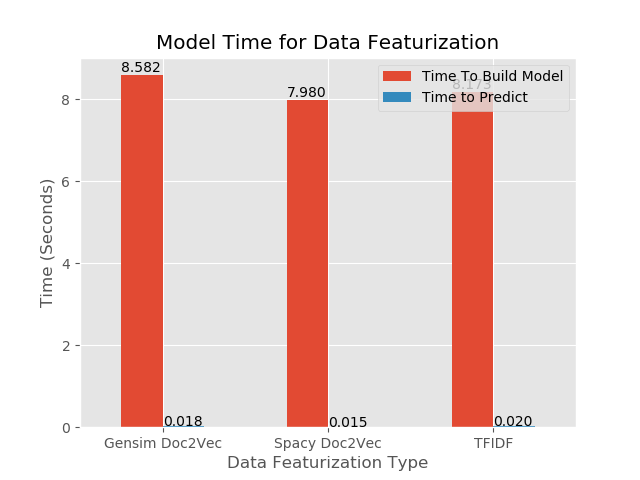
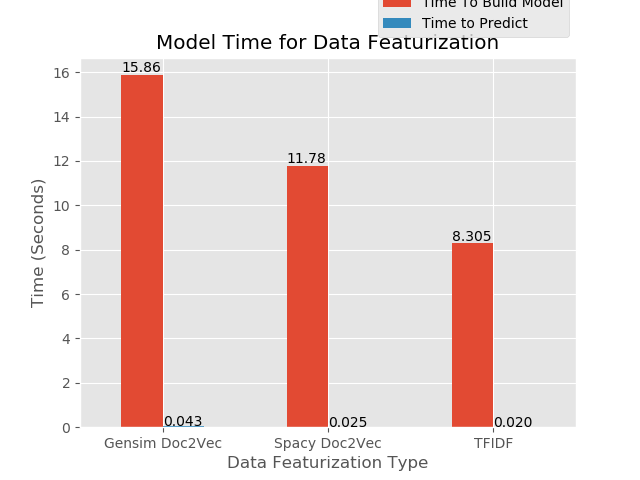
updated pipline to work correctly and give the right results

diff --git a/src/ModelCompare.py b/src/ModelCompare.py
@@ -82,8 +82,8 @@ def Smote(X, y, random_state = 42, k_neighbors=3, plot = False):
 
 def Doc_Simularity(corpus, vector, index, n_simular = 1):
     cosine = pairwise_distances(vector, metric='cosine')[index]
-    indexes_most = cosine.argsort()[:-n_simular-1:-1][0]
-    indexes_least = cosine.argsort()[n_simular+1]
+    indexes_least = cosine.argsort()[:-n_simular-1:-1][0]
+    indexes_most = cosine.argsort()[n_simular+1]
     return corpus[indexes_most], corpus[indexes_least]
 
 def ModelSplitting(X, y, test_size):
@@ -111,7 +111,8 @@ def bar_plot(Dict, y_label, title, save_file, legend=False):
     ax = df.plot(kind='bar', x='Data Featurization Type', rot=0, legend=legend)
     ax.set_ylabel(y_label)
     ax.set_title(title)
-    ax.get_legend().set_bbox_to_anchor((1,1.2))
+    if legend:
+      ax.get_legend().set_bbox_to_anchor((1,1.2))
     for i in ax.patches:
       ax.annotate(str(i.get_height())[:5], (i.get_x(), i.get_height() * 1.01))
     plt.savefig(save_file)
@@ -122,11 +123,11 @@ def Document_Save_to_file(filename, corpus, word_vec):
         with open(filename, 'a') as f:
           f.write("New Doc: ")
           f.write('\n')
-          f.write(corpus[index])
+          f.write('original doc: ' + corpus[index])
           f.write('\n')
-          f.write(most_simular)
+          f.write('most simular: ' + most_simular)
           f.write('\n')
-          f.write(least_simular)
+          f.write('least simular: ' + least_simular)
           f.write('\n')
 
 if __name__ == "__main__":
@@ -147,17 +148,17 @@ if __name__ == "__main__":
                         ('tfidf', TfidfTransformer())
     ])
 
-    X_train_tfidf = text_vect.fit_transform(X_train_tfidf).todense()
-    X_test_tfidf = text_vect.transform(X_test_tfidf)
     pca = PCA(n_components=100)
-    theta = pca.fit_transform(X_train_tfidf)
+    X_train_tfidf = text_vect.fit_transform(X_train_tfidf).todense()
+    X_test_tfidf = text_vect.transform(X_test_tfidf).todense()
+    X_train_tfidf = pca.fit_transform(X_train_tfidf)
     X_test_tfidf = pca.transform(X_test_tfidf)
     
     # fig, ax = plt.subplots(figsize=(8,6))
     # scree_plot(ax, pca, n_components_to_plot=5000)
     # plt.savefig('images/Screeplot.png')
 
-    X_smt_tfidf, y_smt_tfidf = Smote(theta, y_train_tfidf)
+    X_smt_tfidf, y_smt_tfidf = Smote(X_train_tfidf, y_train_tfidf)
     X_smt_vec_spacy, y_smt_vec_spacy = Smote(X_train_vec_spacy, y_train_vec_spacy)
     X_smt_vec_gensim, y_smt_vec_gensim = Smote(X_train_vec_gensim, y_train_tfidf)
 

diff --git a/readme.md b/readme.md
@@ -93,21 +93,21 @@ Here is what I get from gensim on only 2000 datapoints:
 
 |Original Document|Most Simular|Least Simular|
 |-----------------|------------|-------------|
-|Good info.|Nice book good instructions|I love this s***|
-|We ordered this through the publisher, Scholastic.  Since it was for a six-year old, I was disappointed to find that it wasn't a picture book.  It was a chapter book with one illustration per chapter.    My son, however, wasn't the least put off by the lack of drawings.|Excellent story of the DeMeo gang of Brooklyn. Very powerful accounts of the brutality of "that life". Does a very nice job of giving a look into the other side of the Gambino family|GREAT|
-|Kids enjoyed doodle book.|Excelente libro, te capta, te entretiene, aprendes, te ries,|thank you|
-|The content is accessible and well organized for quick acquisition of knowledge for teaching students, residents and colleagues not to mention for the reader as well.|I was very disappointed in this novel. I was expecting something to the effect of The Red Tent (which I thought was great), since it was compared to it on the inside cover.|GREAT|
-|I'm very pleased with this little Bible. I like that I can easily carry it with me most anywhere. I wanted a SMALL Bible, and this is perfect.|This novel was recommended by my cousins wife who is a preacher.  My son had laid a penny on my mothers heart as we laid her to rest.|GREAT|
+|Good info.|This purchase exceeded my expectations.|WaWaWeeWa|
+|We ordered this through the publisher, Scholastic.  Since it was for a six-year old, I was disappointed to find that it wasn't a picture book.  It was a chapter book with one illustration per chapter.    My son, however, wasn't the least put off by the lack of drawings.|I have not read one of the Shannara books since the 1990's but an so happy to have been able to pick this one up and feel like I have come home from a long time away.  Terry Brooks has not lost his touch and now I know I will have to pick up everything in between the last book I read and this one.|GREAT|
+|Kids enjoyed doodle book.|Enjoyed it a lot!|great|
+|The content is accessible and well organized for quick acquisition of knowledge for teaching students, residents and colleagues not to mention for the reader as well. The references are either classic or outdated. A lot of work and time went into the preparation of this book. Are the authors and editors planning to revise and publish a more recent edition?|The parallels that Danelek draws between this ancient society and our modern day lifestyle are shocking.  Deviating from Plato's original concept of Atlantis, the author paints a picture of a technological age vastly similar to life in the 21st century.|GREAT|
+|I'm very pleased with this little Bible. I like that I can easily carry it with me most anywhere. I wanted a SMALL Bible, and this is perfect. The print is "average" size for what you'd find in an average sized Bible.|'Drinking Coffee Elsewhere' is an absolute knockout.  You may or may not have heard of ZZ Packer already [she had a story 'Brownies', in the New Yorker]but if you don't know her, you should. The eight stories in this collection are all wonderful,|great|
 
 and acording to my gensim built on 20000 datapoints:
 
 |Original Document|Most Simular|Least Simular|
 |-----------------|------------|-------------|
-|Good info.|or what this book actually is, it needs to be downsized and released in an affordable paperback printing.|Great!|
-|We ordered this through the publisher, Scholastic.  Since it was for a six-year old, I was disappointed|District Ranger Anna Pigeon of Rocky Mountains National Park is going to have wolves in the park;|CLASSIC!|
-Kids enjoyed doodle book.|I got this as a gift for my son. Iwould reconmend it anyone. It arrived on time and in god condition.|will be great for baby gift|
-|The content is accessible and well organized for quick acquisition of knowledge for teaching students, residents and colleagues not to mention for the reader as well. The references are either classic or outdated. A lot of work and time went into the preparation of this book. Are the authors and editors planning to revise and publish a more recent edition?|Review: FORGED (World of the Nightwalkers, Book 4) by Jacquelyn Frank Release Date: April 29, 2014 Reviewed by: Reading in Pajamas/ Donna Rated: 4 Stars Blog Post: [...]|CLASSIC!|
-|I'm very pleased with this little Bible. I like that I can easily carry it with me most anywhere. I wanted a SMALL Bible, and this is perfect.|So many travelers dream of visiting or regularly visit Paris!  We were last there for a week in 2013 and I used that year's edition of the Lonely Planet Paris guide|CLASSIC!|
+||||
+||||
+||||
+||||
+||||
 
 As you can see there is some understadable realationship between each of these documents for what spacy produces with non-english reviews always beeing the most dissimular. With Gensim however the results seem a bit more random which I belive comes from how small the training set was (less than 2000 documents) which makes it a weaker model at the moment. But since I can train the gensim model I think that increasing the amount of data it trains on would inprove its results.
 
@@ -131,15 +131,25 @@ After training the predicting off of these modes I found the following results w
 
 ![alt_test](images/Model_MSE.png)
 
-As you can see Tfidif had the lowest MSE but it is only slightly different than spacy while gensim performed the words. But this is only one metric so now lets look at the time
+As you can see Spacy had the lowest MSE and Gensim and Tfidf have simular MSE. But this is only one metric so now lets look at the time
 
 ![alt_test](images/Model_Time.png)
 
-From this you can see that spacy had the fastest build time and its predict time is tied with gensim. As a point of comparison rember that both of the Doc2Vec methods produce vecors of length 300 while tfidf is only 100 items long.
+From this you can see that tfidf had the fastest build time and its predict time is tied with spacy. As a point of comparison rember that both of the Doc2Vec methods produce vecors of length 300 while tfidf is only 100 items long.
+
+What in this case I think that I would pick spacy for data featurization because it has the best MSE and is in the medium for building and predict time.
 
 ### 20000 Data points
 
-To test my theories I then decided to use 20000 data points to see how increasing the amount of data would change the Gensim model and the Tfidf speed.
+To See what happens with more data points I increased the amount of data and re-ran the code to see how the data would perform
+
+![alt_text](images/Model_MSE_medium.png)
+
+
+
+![alt_text](images/Model_Time_medium.png)
+
+
 
 ## Conclusion
 
